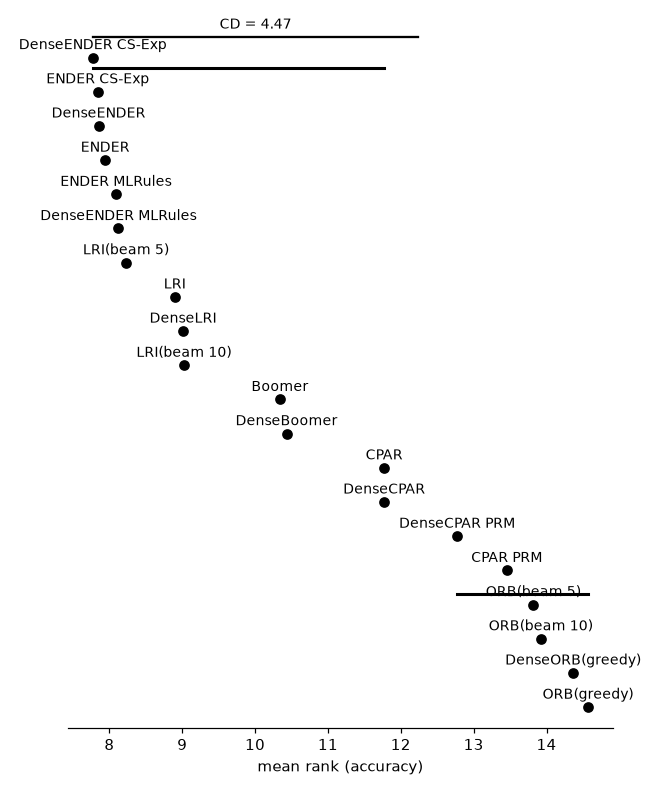
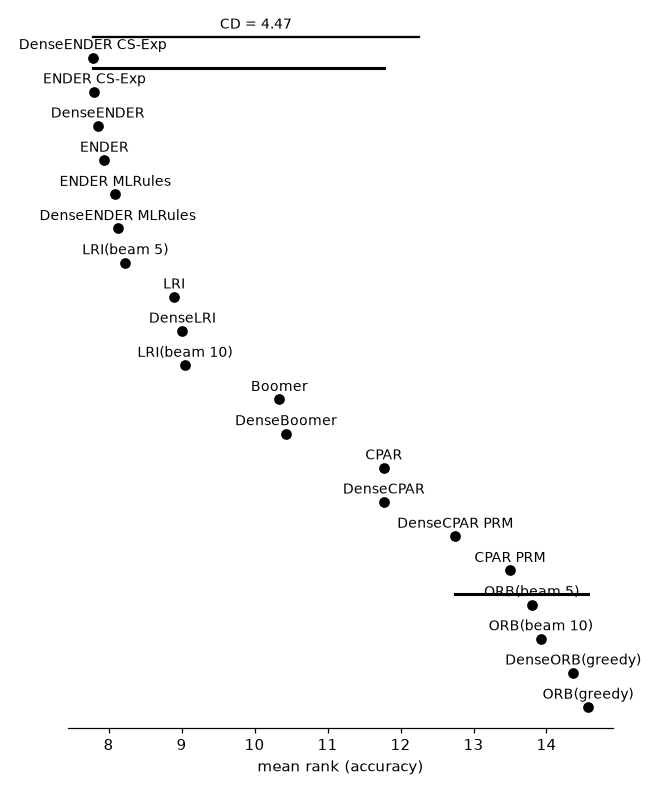
Dense vs. modular: full re-run on the faster N-lists
Run on nlist-fast-subset (the derived subsets and the dense pattern product; the
block-wise conversion only lowers peak memory), 10 fits at a time. The modular
learners are now as fast on N-lists as on Boolean data or faster (time Boolean /
N-list 0.95-1.17, before 0.71-0.98), and 10-25% faster against their dense twins.

diff --git a/demos/dense_vs_modular_report.md b/demos/dense_vs_modular_report.md
@@ -29,7 +29,7 @@ with a beam search of width 5 and 10, which the dense versions don't have.
 All learners run with their defaults (listed above) on 44 binary datasets from
 `pyrulearn.experiments.catalog` -- every one of the small and medium size classes in the full run, numeric and symbolic attributes alike; `ORB` boosts a binary loss, so no multi-class
 datasets. Exhaustive `ORB` was checked separately and left out -- see "Why exhaustive ORB
-isn't in the main comparison". On 5 very small datasets (monks-problems-3, mofn-3-7-10, vote, tic-tac-toe, breast-cancer), exhaustive `ORB` reached a mean accuracy of 96.67% against 88.65% for a beam search of width 10 and 88.24% for greedy search (over the fits that finished), in 1.7s per fit against 0.35s and 0.02s -- 5x as long as the beam search; 6 of its 15 fits hit the 120s cap. Branch and bound is exponential in the number of conditions it may combine, so it doesn't scale to the feature spaces of most datasets (dozens to hundreds of binary features after discretizing numeric attributes) -- it is left out of the main comparison.
+isn't in the main comparison". On 5 very small datasets (monks-problems-3, mofn-3-7-10, vote, tic-tac-toe, breast-cancer), exhaustive `ORB` reached a mean accuracy of 95.51% against 88.65% for a beam search of width 10 and 88.24% for greedy search (over the fits that finished), in 13.0s per fit against 0.21s and 0.02s -- 62x as long as the beam search; 5 of its 15 fits hit the 120s cap. Branch and bound is exponential in the number of conditions it may combine, so it doesn't scale to the feature spaces of most datasets (dozens to hundreds of binary features after discretizing numeric attributes) -- it is left out of the main comparison.
 
 Protocol: 10-fold stratified cross-validation (5-fold for the medium datasets)
 (`pyrulearn.experiments.runner.run_cv`), one `DataSpec` per training fold
@@ -54,7 +54,7 @@ Every learner runs single-threaded. Fits run 10 at a time (`run_cv`'s `n_jobs`),
 
 ## Why exhaustive ORB isn't in the main comparison
 
-On 5 very small datasets (monks-problems-3, mofn-3-7-10, vote, tic-tac-toe, breast-cancer), exhaustive `ORB` reached a mean accuracy of 96.67% against 88.65% for a beam search of width 10 and 88.24% for greedy search (over the fits that finished), in 1.7s per fit against 0.35s and 0.02s -- 5x as long as the beam search; 6 of its 15 fits hit the 120s cap. Branch and bound is exponential in the number of conditions it may combine, so it doesn't scale to the feature spaces of most datasets (dozens to hundreds of binary features after discretizing numeric attributes) -- it is left out of the main comparison.
+On 5 very small datasets (monks-problems-3, mofn-3-7-10, vote, tic-tac-toe, breast-cancer), exhaustive `ORB` reached a mean accuracy of 95.51% against 88.65% for a beam search of width 10 and 88.24% for greedy search (over the fits that finished), in 13.0s per fit against 0.21s and 0.02s -- 62x as long as the beam search; 5 of its 15 fits hit the 120s cap. Branch and bound is exponential in the number of conditions it may combine, so it doesn't scale to the feature spaces of most datasets (dozens to hundreds of binary features after discretizing numeric attributes) -- it is left out of the main comparison.
 
 Accuracy (mean over the folds that finished):
 
@@ -63,18 +63,18 @@ Accuracy (mean over the folds that finished):
 | breast-cancer | 69.58% | 69.94% | 67.49% | 69.58% |  |  |
 | mofn-3-7-10 | 93.73% | 95.09% | 95.32% | 93.73% | 95.47% | 95.47% |
 | monks-problems-3 | 98.92% | 98.92% | 98.92% | 98.92% | 98.92% | 98.92% |
-| tic-tac-toe | 83.09% | 87.89% | 85.91% | 83.09% | 83.92% |  |
+| tic-tac-toe | 83.09% | 87.89% | 85.91% | 83.09% | 83.92% | 85.00% |
 | vote | 95.86% | 95.86% | 95.63% | 95.86% | 95.63% | 95.63% |
 
 Fit time in seconds (mean over the folds that finished; a blank cell: every fold hit the cap):
 
 | dataset | ORB(greedy) | ORB(beam 5) | ORB(beam 10) | DenseORB(greedy) | DenseORB(exhaustive) | ORB(exhaustive) |
 |---|--:|--:|--:|--:|--:|--:|
-| breast-cancer | 0.03 | 0.43 | 0.74 | 0.01 |  |  |
-| mofn-3-7-10 | 0.02 | 0.10 | 0.17 | 0.01 | 0.28 | 0.77 |
-| monks-problems-3 | 0.02 | 0.10 | 0.20 | 0.00 | 0.40 | 1.15 |
-| tic-tac-toe | 0.02 | 0.18 | 0.34 | 0.01 | 62.80 |  |
-| vote | 0.02 | 0.16 | 0.29 | 0.01 | 1.61 | 3.29 |
+| breast-cancer | 0.02 | 0.22 | 0.41 | 0.00 |  |  |
+| mofn-3-7-10 | 0.02 | 0.07 | 0.11 | 0.01 | 0.27 | 0.66 |
+| monks-problems-3 | 0.01 | 0.07 | 0.13 | 0.00 | 0.41 | 0.94 |
+| tic-tac-toe | 0.02 | 0.12 | 0.22 | 0.01 | 58.94 | 118.14 |
+| vote | 0.01 | 0.10 | 0.18 | 0.00 | 1.60 | 2.35 |
 
 ## Dense vs. modular
 
@@ -82,39 +82,39 @@ For each pair, over the folds where both fits finished: how often the two learne
 
 | pair | identical models | accuracy dense | accuracy modular | difference (points) | time modular / dense, small | medium | all |
 |---|--:|--:|--:|--:|--:|--:|--:|
-| CPAR | 345/345 | 85.63% | 85.63% | +0.00 | 2.45 | 1.66 | 2.08 |
-| CPAR PRM | 267/345 | 85.57% | 85.43% | -0.14 | 2.57 | 1.78 | 2.19 |
-| ENDER | 333/345 | 85.83% | 85.83% | -0.00 | 2.02 | 0.95 | 1.46 |
-| ENDER CS-Exp | 328/345 | 86.04% | 86.04% | +0.00 | 2.14 | 0.99 | 1.54 |
-| ENDER MLRules | 315/345 | 86.19% | 86.15% | -0.04 | 1.82 | 0.81 | 1.28 |
-| Boomer | 326/345 | 86.43% | 86.42% | -0.01 | 2.10 | 0.85 | 1.42 |
-| ORB | 327/345 | 83.50% | 83.48% | -0.02 | 3.49 | 1.76 | 2.60 |
-| LRI | 48/345 | 85.03% | 85.04% | +0.01 | 2.55 | 1.24 | 1.87 |
+| CPAR | 345/345 | 85.63% | 85.63% | +0.00 | 2.01 | 1.40 | 1.72 |
+| CPAR PRM | 266/345 | 85.57% | 85.42% | -0.15 | 2.02 | 1.51 | 1.78 |
+| ENDER | 335/345 | 85.83% | 85.83% | -0.00 | 1.45 | 0.80 | 1.13 |
+| ENDER CS-Exp | 329/345 | 86.04% | 86.04% | +0.00 | 1.52 | 0.80 | 1.16 |
+| ENDER MLRules | 317/345 | 86.19% | 86.15% | -0.04 | 1.31 | 0.62 | 0.95 |
+| Boomer | 325/345 | 86.43% | 86.41% | -0.02 | 1.41 | 0.66 | 1.02 |
+| ORB | 326/345 | 83.50% | 83.48% | -0.02 | 2.81 | 1.48 | 2.13 |
+| LRI | 48/345 | 85.03% | 85.04% | +0.01 | 2.06 | 1.08 | 1.56 |
 
 ## Summary by learner (mean across the 44 datasets and their folds)
 
 | learner | accuracy | n_rules | n_conditions | conds/rule | fit_time (s) | wins | mean rank | failures |
 |---|--:|--:|--:|--:|--:|--:|--:|--:|
-| DenseENDER CS-Exp | 86.04% | 396.4 | 1750.1 | 4.2 | 1.29 | 3.7 | 7.77 | 0 |
-| ENDER CS-Exp | 86.04% | 396.4 | 1750.0 | 4.2 | 1.26 | 3.7 | 7.84 | 0 |
-| DenseENDER | 85.83% | 406.6 | 1906.8 | 4.4 | 1.56 | 2.3 | 7.85 | 0 |
-| ENDER | 85.83% | 406.7 | 1907.0 | 4.4 | 1.49 | 2.3 | 7.94 | 0 |
-| ENDER MLRules | 86.15% | 346.0 | 1433.1 | 4.1 | 1.31 | 1.2 | 8.09 | 0 |
-| DenseENDER MLRules | 86.19% | 346.0 | 1432.3 | 4.0 | 1.69 | 1.2 | 8.12 | 0 |
-| LRI(beam 5) | 86.13% | 392.5 | 1365.8 | 3.5 | 5.38 | 4.2 | 8.23 | 0 |
-| LRI | 85.04% | 396.3 | 1579.0 | 4.0 | 1.18 | 1.1 | 8.90 | 0 |
-| DenseLRI | 85.03% | 396.4 | 1561.4 | 3.9 | 0.88 | 4.0 | 9.01 | 0 |
-| LRI(beam 10) | 86.18% | 392.1 | 1405.0 | 3.6 | 9.95 | 3.7 | 9.02 | 0 |
-| Boomer | 86.42% | 273.1 | 1793.4 | 5.4 | 2.95 | 4.1 | 10.34 | 0 |
-| DenseBoomer | 86.43% | 272.9 | 1792.1 | 5.4 | 3.48 | 5.1 | 10.43 | 0 |
-| CPAR | 85.63% | 373.5 | 2431.9 | 4.6 | 1.45 | 1.2 | 11.77 | 0 |
-| DenseCPAR | 85.63% | 373.5 | 2431.9 | 4.6 | 1.07 | 1.2 | 11.77 | 0 |
-| DenseCPAR PRM | 85.57% | 309.1 | 1941.8 | 4.6 | 1.04 | 2.2 | 12.77 | 0 |
-| CPAR PRM | 85.43% | 307.3 | 1937.1 | 4.6 | 1.63 | 0.2 | 13.45 | 0 |
-| ORB(beam 5) | 84.06% | 9.8 | 48.5 | 4.9 | 2.09 | 0.2 | 13.82 | 0 |
-| ORB(beam 10) | 84.34% | 9.8 | 51.1 | 5.2 | 4.32 | 1.2 | 13.92 | 0 |
-| DenseORB(greedy) | 83.50% | 9.7 | 39.6 | 4.0 | 0.03 | 0.1 | 14.36 | 0 |
-| ORB(greedy) | 83.48% | 9.7 | 39.6 | 4.1 | 0.05 | 1.1 | 14.57 | 0 |
+| DenseENDER CS-Exp | 86.04% | 396.4 | 1750.1 | 4.2 | 1.12 | 3.7 | 7.78 | 0 |
+| ENDER CS-Exp | 86.04% | 396.4 | 1750.1 | 4.2 | 0.86 | 3.7 | 7.81 | 0 |
+| DenseENDER | 85.83% | 406.6 | 1906.8 | 4.4 | 1.40 | 2.3 | 7.85 | 0 |
+| ENDER | 85.83% | 406.7 | 1907.0 | 4.4 | 1.07 | 2.3 | 7.94 | 0 |
+| ENDER MLRules | 86.15% | 346.0 | 1433.1 | 4.1 | 0.90 | 1.2 | 8.09 | 0 |
+| DenseENDER MLRules | 86.19% | 346.0 | 1432.3 | 4.0 | 1.55 | 1.2 | 8.12 | 0 |
+| LRI(beam 5) | 86.13% | 392.5 | 1365.8 | 3.5 | 3.94 | 4.2 | 8.23 | 0 |
+| LRI | 85.04% | 396.3 | 1579.0 | 4.0 | 0.88 | 1.1 | 8.90 | 0 |
+| DenseLRI | 85.03% | 396.4 | 1561.4 | 3.9 | 0.75 | 4.0 | 9.01 | 0 |
+| LRI(beam 10) | 86.18% | 392.1 | 1405.0 | 3.6 | 7.20 | 3.7 | 9.05 | 0 |
+| Boomer | 86.41% | 273.1 | 1793.5 | 5.4 | 1.99 | 4.1 | 10.34 | 0 |
+| DenseBoomer | 86.43% | 272.9 | 1792.1 | 5.4 | 3.17 | 5.1 | 10.43 | 0 |
+| CPAR | 85.63% | 373.5 | 2431.9 | 4.6 | 1.15 | 1.2 | 11.77 | 0 |
+| DenseCPAR | 85.63% | 373.5 | 2431.9 | 4.6 | 0.93 | 1.2 | 11.77 | 0 |
+| DenseCPAR PRM | 85.57% | 309.1 | 1941.8 | 4.6 | 0.89 | 2.2 | 12.75 | 0 |
+| CPAR PRM | 85.42% | 307.4 | 1937.3 | 4.6 | 1.28 | 0.2 | 13.50 | 0 |
+| ORB(beam 5) | 84.06% | 9.8 | 48.5 | 4.9 | 1.49 | 0.2 | 13.80 | 0 |
+| ORB(beam 10) | 84.34% | 9.8 | 51.1 | 5.2 | 3.07 | 1.2 | 13.92 | 0 |
+| DenseORB(greedy) | 83.50% | 9.7 | 39.6 | 4.0 | 0.02 | 0.1 | 14.36 | 0 |
+| ORB(greedy) | 83.48% | 9.7 | 39.6 | 4.1 | 0.04 | 1.1 | 14.57 | 0 |
 
 Sorted by mean rank. `wins` -- datasets where a learner's mean accuracy was (tied-for-)best, a tie split evenly; `mean rank` -- average accuracy rank across datasets, failures tied for last. Means over successful fits only; `failures` counts the fits that timed out or raised. A dense learner and its twin that learn the same models tie for rank, so the ranking separates the algorithms and the searches, not dense from modular.
 
@@ -124,26 +124,26 @@ Sorted by mean rank. `wins` -- datasets where a learner's mean accuracy was (tie
 
 | learner | accuracy | n_rules | n_conditions | conds/rule | fit_time (s) | wins | mean rank | failures |
 |---|--:|--:|--:|--:|--:|--:|--:|--:|
-| ENDER CS-Exp | 84.75% | 396.9 | 1548.8 | 3.7 | 0.89 | 2.1 | 7.28 | 0 |
-| DenseENDER CS-Exp | 84.75% | 396.9 | 1549.1 | 3.7 | 0.44 | 2.1 | 7.36 | 0 |
-| ENDER | 84.45% | 406.1 | 1660.8 | 3.9 | 0.99 | 1.2 | 8.16 | 0 |
-| DenseENDER | 84.45% | 406.0 | 1660.5 | 3.9 | 0.52 | 1.2 | 8.16 | 0 |
-| DenseENDER MLRules | 84.95% | 343.1 | 1278.6 | 3.7 | 0.53 | 0.6 | 8.24 | 0 |
-| ENDER MLRules | 84.89% | 343.1 | 1279.0 | 3.7 | 0.89 | 0.6 | 8.66 | 0 |
-| DenseLRI | 83.66% | 396.3 | 1530.7 | 3.9 | 0.36 | 2.9 | 9.70 | 0 |
-| LRI(beam 5) | 84.86% | 391.6 | 1328.7 | 3.4 | 4.68 | 1.1 | 9.70 | 0 |
-| LRI | 83.68% | 396.3 | 1551.3 | 3.9 | 0.89 | 1.1 | 9.88 | 0 |
-| LRI(beam 10) | 84.94% | 391.6 | 1370.5 | 3.5 | 8.78 | 1.6 | 10.42 | 0 |
-| DenseBoomer | 85.42% | 229.2 | 1483.0 | 5.3 | 1.22 | 2.9 | 10.82 | 0 |
-| Boomer | 85.40% | 229.3 | 1484.6 | 5.3 | 2.15 | 1.9 | 10.84 | 0 |
-| CPAR | 84.42% | 180.7 | 856.5 | 4.2 | 0.44 | 0.7 | 11.22 | 0 |
-| DenseCPAR | 84.42% | 180.7 | 856.5 | 4.2 | 0.19 | 0.7 | 11.22 | 0 |
-| DenseCPAR PRM | 84.38% | 165.0 | 778.2 | 4.1 | 0.19 | 2.2 | 12.14 | 0 |
-| CPAR PRM | 84.22% | 163.7 | 771.8 | 4.1 | 0.48 | 0.2 | 12.62 | 0 |
-| ORB(beam 10) | 82.97% | 9.8 | 48.7 | 4.9 | 2.66 | 1.2 | 13.10 | 0 |
+| ENDER CS-Exp | 84.75% | 396.9 | 1548.8 | 3.7 | 0.56 | 2.1 | 7.28 | 0 |
+| DenseENDER CS-Exp | 84.75% | 396.9 | 1549.1 | 3.7 | 0.39 | 2.1 | 7.36 | 0 |
+| ENDER | 84.45% | 406.1 | 1660.8 | 3.9 | 0.64 | 1.2 | 8.16 | 0 |
+| DenseENDER | 84.45% | 406.0 | 1660.5 | 3.9 | 0.47 | 1.2 | 8.16 | 0 |
+| DenseENDER MLRules | 84.95% | 343.1 | 1278.6 | 3.7 | 0.48 | 0.6 | 8.24 | 0 |
+| ENDER MLRules | 84.89% | 343.1 | 1279.0 | 3.7 | 0.57 | 0.6 | 8.66 | 0 |
+| DenseLRI | 83.66% | 396.3 | 1530.7 | 3.9 | 0.31 | 2.9 | 9.70 | 0 |
+| LRI(beam 5) | 84.86% | 391.6 | 1328.7 | 3.4 | 3.35 | 1.1 | 9.70 | 0 |
+| LRI | 83.68% | 396.3 | 1551.3 | 3.9 | 0.63 | 1.1 | 9.88 | 0 |
+| LRI(beam 10) | 84.94% | 391.6 | 1370.5 | 3.5 | 6.21 | 1.6 | 10.42 | 0 |
+| DenseBoomer | 85.42% | 229.2 | 1483.0 | 5.3 | 1.11 | 2.9 | 10.82 | 0 |
+| Boomer | 85.40% | 229.4 | 1484.7 | 5.3 | 1.34 | 1.9 | 10.84 | 0 |
+| CPAR | 84.42% | 180.7 | 856.5 | 4.2 | 0.31 | 0.7 | 11.22 | 0 |
+| DenseCPAR | 84.42% | 180.7 | 856.5 | 4.2 | 0.16 | 0.7 | 11.22 | 0 |
+| DenseCPAR PRM | 84.38% | 165.0 | 778.2 | 4.1 | 0.17 | 2.2 | 12.12 | 0 |
+| CPAR PRM | 84.21% | 163.6 | 771.7 | 4.1 | 0.33 | 0.2 | 12.68 | 0 |
+| ORB(beam 10) | 82.97% | 9.8 | 48.7 | 4.9 | 1.83 | 1.2 | 13.10 | 0 |
 | DenseORB(greedy) | 82.05% | 9.7 | 36.5 | 3.7 | 0.01 | 0.1 | 13.22 | 0 |
-| ORB(greedy) | 82.03% | 9.7 | 36.6 | 3.7 | 0.03 | 1.1 | 13.46 | 0 |
-| ORB(beam 5) | 82.55% | 9.8 | 46.3 | 4.7 | 1.32 | 0.2 | 13.80 | 0 |
+| ORB(greedy) | 82.03% | 9.7 | 36.6 | 3.7 | 0.02 | 1.1 | 13.46 | 0 |
+| ORB(beam 5) | 82.55% | 9.8 | 46.3 | 4.7 | 0.92 | 0.2 | 13.76 | 0 |
 
 ### Medium datasets only (19, 1,000 to 10,000 examples)
 
@@ -151,26 +151,26 @@ Sorted by mean rank. `wins` -- datasets where a learner's mean accuracy was (tie
 
 | learner | accuracy | n_rules | n_conditions | conds/rule | fit_time (s) | wins | mean rank | failures |
 |---|--:|--:|--:|--:|--:|--:|--:|--:|
-| LRI(beam 5) | 89.50% | 394.8 | 1463.4 | 3.7 | 7.20 | 3.2 | 6.29 | 0 |
-| LRI(beam 10) | 89.44% | 393.4 | 1495.8 | 3.8 | 13.04 | 2.2 | 7.18 | 0 |
-| ENDER MLRules | 89.46% | 353.6 | 1838.7 | 4.9 | 2.44 | 0.7 | 7.34 | 0 |
-| DenseENDER | 89.47% | 408.1 | 2554.9 | 5.8 | 4.30 | 1.2 | 7.45 | 0 |
-| LRI | 88.61% | 396.6 | 1652.0 | 4.2 | 1.93 | 0.1 | 7.61 | 0 |
-| ENDER | 89.47% | 408.1 | 2555.0 | 5.8 | 2.82 | 1.2 | 7.66 | 0 |
-| DenseENDER MLRules | 89.44% | 353.5 | 1836.6 | 4.9 | 4.74 | 0.7 | 7.97 | 0 |
-| DenseLRI | 88.61% | 396.6 | 1642.3 | 4.1 | 2.23 | 1.1 | 8.11 | 0 |
-| DenseENDER CS-Exp | 89.43% | 395.3 | 2279.2 | 5.4 | 3.52 | 1.7 | 8.32 | 0 |
-| ENDER CS-Exp | 89.42% | 395.3 | 2279.5 | 5.4 | 2.23 | 1.7 | 8.58 | 0 |
-| Boomer | 89.09% | 388.3 | 2606.1 | 5.8 | 5.05 | 2.2 | 9.68 | 0 |
-| DenseBoomer | 89.08% | 388.2 | 2605.8 | 5.8 | 9.42 | 2.2 | 9.92 | 0 |
-| CPAR | 88.80% | 880.9 | 6577.5 | 5.9 | 4.11 | 0.5 | 12.50 | 0 |
-| DenseCPAR | 88.80% | 880.9 | 6577.5 | 5.9 | 3.41 | 0.5 | 12.50 | 0 |
-| DenseCPAR PRM | 88.69% | 688.3 | 5003.7 | 5.8 | 3.25 | 0.0 | 13.61 | 0 |
-| ORB(beam 5) | 88.02% | 9.7 | 54.3 | 5.5 | 4.12 | 0.0 | 13.84 | 0 |
-| CPAR PRM | 88.60% | 685.5 | 5003.6 | 5.8 | 4.67 | 0.0 | 14.55 | 0 |
-| ORB(beam 10) | 87.92% | 9.7 | 57.4 | 5.9 | 8.71 | 0.0 | 15.00 | 0 |
-| DenseORB(greedy) | 87.32% | 9.7 | 47.5 | 4.9 | 0.07 | 0.0 | 15.87 | 0 |
-| ORB(greedy) | 87.30% | 9.7 | 47.7 | 4.9 | 0.10 | 0.0 | 16.03 | 0 |
+| LRI(beam 5) | 89.50% | 394.8 | 1463.4 | 3.7 | 5.50 | 3.2 | 6.29 | 0 |
+| LRI(beam 10) | 89.44% | 393.4 | 1495.8 | 3.8 | 9.80 | 2.2 | 7.24 | 0 |
+| ENDER MLRules | 89.46% | 353.6 | 1838.8 | 4.9 | 1.77 | 0.7 | 7.34 | 0 |
+| DenseENDER | 89.47% | 408.1 | 2554.9 | 5.8 | 3.84 | 1.2 | 7.45 | 0 |
+| LRI | 88.61% | 396.6 | 1652.0 | 4.2 | 1.52 | 0.1 | 7.61 | 0 |
+| ENDER | 89.47% | 408.1 | 2555.0 | 5.8 | 2.18 | 1.2 | 7.66 | 0 |
+| DenseENDER MLRules | 89.44% | 353.5 | 1836.6 | 4.9 | 4.38 | 0.7 | 7.97 | 0 |
+| DenseLRI | 88.61% | 396.6 | 1642.3 | 4.1 | 1.91 | 1.1 | 8.11 | 0 |
+| DenseENDER CS-Exp | 89.43% | 395.3 | 2279.2 | 5.4 | 3.03 | 1.7 | 8.34 | 0 |
+| ENDER CS-Exp | 89.43% | 395.3 | 2279.6 | 5.4 | 1.65 | 1.7 | 8.50 | 0 |
+| Boomer | 89.09% | 388.3 | 2606.1 | 5.8 | 3.68 | 2.2 | 9.68 | 0 |
+| DenseBoomer | 89.08% | 388.2 | 2605.8 | 5.8 | 8.59 | 2.2 | 9.92 | 0 |
+| CPAR | 88.80% | 880.9 | 6577.5 | 5.9 | 3.34 | 0.5 | 12.50 | 0 |
+| DenseCPAR | 88.80% | 880.9 | 6577.5 | 5.9 | 2.96 | 0.5 | 12.50 | 0 |
+| DenseCPAR PRM | 88.69% | 688.3 | 5003.7 | 5.8 | 2.78 | 0.0 | 13.58 | 0 |
+| ORB(beam 5) | 88.02% | 9.7 | 54.3 | 5.5 | 2.99 | 0.0 | 13.84 | 0 |
+| CPAR PRM | 88.60% | 685.5 | 5004.9 | 5.8 | 3.78 | 0.0 | 14.58 | 0 |
+| ORB(beam 10) | 87.92% | 9.7 | 57.4 | 5.9 | 6.32 | 0.0 | 15.00 | 0 |
+| DenseORB(greedy) | 87.32% | 9.7 | 47.5 | 4.9 | 0.06 | 0.0 | 15.87 | 0 |
+| ORB(greedy) | 87.30% | 9.7 | 47.7 | 4.9 | 0.07 | 0.0 | 16.03 | 0 |
 
 ## Beam search for ORB and LRI
 
@@ -178,12 +178,12 @@ The dense `ORB` and `LRI` come with their own greedy (and, for `ORB`, exhaustive
 
 | learner | accuracy | n_conditions | fit_time (s) |
 |---|--:|--:|--:|
-| ORB(greedy) | 83.48% | 39.6 | 0.05 |
-| ORB(beam 5) | 84.06% | 48.5 | 2.09 |
-| ORB(beam 10) | 84.34% | 51.1 | 4.32 |
-| LRI | 85.04% | 1579.0 | 1.18 |
-| LRI(beam 5) | 86.13% | 1365.8 | 5.38 |
-| LRI(beam 10) | 86.18% | 1405.0 | 9.95 |
+| ORB(greedy) | 83.48% | 39.6 | 0.04 |
+| ORB(beam 5) | 84.06% | 48.5 | 1.49 |
+| ORB(beam 10) | 84.34% | 51.1 | 3.07 |
+| LRI | 85.04% | 1579.0 | 0.88 |
+| LRI(beam 5) | 86.13% | 1365.8 | 3.94 |
+| LRI(beam 10) | 86.18% | 1405.0 | 7.20 |
 
 ## The modular learners on Boolean data
 
@@ -191,18 +191,18 @@ The modular learners above run on `NListRepresentation`, the library's default. 
 
 | learner | accuracy, N-list | accuracy, Boolean | time Boolean / N-list (geometric mean over datasets) |
 |---|--:|--:|--:|
-| CPAR | 85.63% | 85.63% | 0.89 |
-| CPAR PRM | 85.43% | 85.54% | 0.95 |
-| ENDER | 85.83% | 85.84% | 0.76 |
-| ENDER CS-Exp | 86.04% | 86.03% | 0.73 |
-| ENDER MLRules | 86.15% | 86.19% | 0.77 |
-| Boomer | 86.42% | 86.41% | 0.87 |
-| ORB(greedy) | 83.48% | 83.52% | 0.95 |
-| LRI | 85.04% | 85.04% | 0.98 |
-| ORB(beam 5) | 84.06% | 84.04% | 0.72 |
-| ORB(beam 10) | 84.34% | 84.22% | 0.71 |
-| LRI(beam 5) | 86.13% | 86.13% | 0.86 |
-| LRI(beam 10) | 86.18% | 86.18% | 0.84 |
+| CPAR | 85.63% | 85.63% | 1.07 |
+| CPAR PRM | 85.42% | 85.54% | 1.14 |
+| ENDER | 85.83% | 85.84% | 0.97 |
+| ENDER CS-Exp | 86.04% | 86.03% | 0.96 |
+| ENDER MLRules | 86.15% | 86.19% | 1.01 |
+| Boomer | 86.41% | 86.41% | 1.16 |
+| ORB(greedy) | 83.48% | 83.52% | 1.13 |
+| LRI | 85.04% | 85.04% | 1.17 |
+| ORB(beam 5) | 84.06% | 84.04% | 0.96 |
+| ORB(beam 10) | 84.34% | 84.22% | 0.95 |
+| LRI(beam 5) | 86.13% | 86.13% | 1.05 |
+| LRI(beam 10) | 86.18% | 86.18% | 1.04 |
 
 ## Per-dataset results
 
@@ -230,7 +230,7 @@ Accuracy (mean over the folds that finished):
 | heart-statlog | 82.22% | 80.00% | 81.48% | 81.11% | 79.63% | 77.78% | 79.26% | 76.30% | 80.00% | 80.37% | 76.67% | 78.15% | 82.22% | 81.11% | 81.48% | 81.11% | 79.63% | 77.78% | 79.26% | 75.56% |
 | heloc | 70.23% | 70.00% | 72.19% | 71.79% | 72.06% | 70.05% | 70.35% | 71.88% | 70.25% | 70.14% | 71.72% | 71.72% | 70.23% | 70.42% | 72.19% | 71.79% | 72.06% | 70.05% | 70.35% | 71.55% |
 | hepatitis | 80.71% | 78.75% | 79.54% | 80.88% | 80.25% | 81.50% | 84.50% | 82.12% | 80.88% | 78.88% | 82.12% | 79.50% | 80.71% | 78.75% | 79.54% | 80.88% | 80.25% | 81.50% | 83.87% | 80.88% |
-| ilpd | 71.17% | 70.32% | 69.98% | 71.02% | 70.15% | 69.46% | 70.15% | 71.68% | 70.49% | 71.86% | 70.13% | 70.13% | 71.17% | 69.81% | 69.98% | 71.02% | 70.49% | 69.29% | 70.15% | 70.99% |
+| ilpd | 71.17% | 70.32% | 69.98% | 71.02% | 70.15% | 69.29% | 70.15% | 71.68% | 70.49% | 71.86% | 70.13% | 70.13% | 71.17% | 69.81% | 69.98% | 71.02% | 70.49% | 69.29% | 70.15% | 70.99% |
 | ionosphere | 90.88% | 89.17% | 94.29% | 93.73% | 94.30% | 94.01% | 90.02% | 93.44% | 91.72% | 91.73% | 93.16% | 92.60% | 90.88% | 89.17% | 94.29% | 93.73% | 94.30% | 94.01% | 90.02% | 93.44% |
 | kc1 | 84.21% | 83.97% | 85.63% | 85.49% | 84.87% | 84.12% | 85.02% | 85.44% | 84.97% | 85.16% | 85.63% | 85.40% | 84.21% | 83.88% | 85.63% | 85.59% | 84.87% | 83.97% | 85.02% | 85.30% |
 | kc2 | 82.94% | 83.89% | 84.26% | 84.64% | 82.93% | 81.79% | 83.12% | 82.36% | 82.16% | 81.60% | 82.36% | 81.40% | 82.94% | 83.89% | 84.26% | 84.64% | 82.93% | 81.79% | 83.12% | 81.79% |
@@ -241,7 +241,7 @@ Accuracy (mean over the folds that finished):
 | monks-problems-2 | 96.17% | 97.17% | 65.40% | 65.73% | 76.54% | 98.84% | 69.88% | 67.21% | 75.70% | 77.53% | 93.35% | 95.35% | 96.17% | 97.50% | 65.40% | 65.73% | 76.54% | 98.84% | 69.88% | 71.39% |
 | monks-problems-3 | 98.92% | 98.92% | 98.92% | 98.74% | 97.66% | 97.66% | 98.92% | 98.20% | 98.92% | 98.92% | 97.84% | 97.84% | 98.92% | 98.92% | 98.92% | 98.74% | 97.66% | 97.66% | 98.92% | 97.84% |
 | mushroom | 99.95% | 99.95% | 100.00% | 100.00% | 100.00% | 100.00% | 99.54% | 100.00% | 99.48% | 99.84% | 100.00% | 100.00% | 99.95% | 99.95% | 100.00% | 100.00% | 100.00% | 100.00% | 99.54% | 100.00% |
-| ozone-level-8hr | 93.73% | 93.73% | 93.92% | 93.92% | 94.28% | 94.28% | 93.01% | 94.24% | 92.98% | 92.94% | 94.28% | 93.96% | 93.73% | 93.80% | 94.00% | 93.96% | 94.20% | 94.28% | 93.09% | 94.20% |
+| ozone-level-8hr | 93.73% | 93.73% | 93.92% | 93.96% | 94.28% | 94.28% | 93.01% | 94.24% | 92.98% | 92.94% | 94.28% | 93.96% | 93.73% | 93.80% | 94.00% | 93.96% | 94.20% | 94.28% | 93.09% | 94.20% |
 | pc1 | 92.61% | 91.98% | 92.70% | 92.79% | 92.61% | 92.06% | 92.16% | 93.06% | 92.97% | 92.16% | 92.88% | 93.06% | 92.61% | 91.98% | 92.70% | 92.79% | 92.61% | 92.15% | 92.16% | 93.15% |
 | pc3 | 89.63% | 88.74% | 88.74% | 89.38% | 89.12% | 88.61% | 89.38% | 89.38% | 89.19% | 89.12% | 89.31% | 88.74% | 89.63% | 88.87% | 88.74% | 89.38% | 88.99% | 88.48% | 89.38% | 89.06% |
 | pc4 | 89.99% | 89.57% | 89.78% | 89.64% | 89.78% | 89.64% | 88.41% | 90.12% | 89.30% | 88.89% | 90.19% | 90.12% | 89.99% | 89.57% | 89.78% | 89.71% | 89.71% | 89.64% | 88.61% | 89.92% |
@@ -249,58 +249,58 @@ Accuracy (mean over the folds that finished):
 | qsar-biodeg | 84.45% | 83.70% | 85.88% | 86.16% | 85.31% | 85.21% | 80.95% | 85.97% | 83.51% | 82.94% | 85.88% | 85.40% | 84.45% | 83.89% | 85.88% | 86.16% | 85.31% | 85.21% | 80.95% | 85.88% |
 | sick | 98.17% | 98.17% | 98.33% | 98.06% | 98.52% | 98.52% | 98.12% | 98.59% | 98.52% | 98.36% | 98.67% | 98.52% | 98.17% | 98.17% | 98.33% | 98.06% | 98.52% | 98.52% | 98.12% | 98.59% |
 | sonar | 76.02% | 75.00% | 84.14% | 82.69% | 85.10% | 85.62% | 79.33% | 81.29% | 74.98% | 79.86% | 82.71% | 81.74% | 76.02% | 76.43% | 84.14% | 82.69% | 85.10% | 86.12% | 78.83% | 81.29% |
-| spambase | 93.76% | 94.18% | 95.28% | 95.09% | 95.00% | 95.52% | 92.20% | 95.39% | 92.70% | 92.89% | 95.26% | 95.35% | 93.76% | 94.18% | 95.28% | 95.09% | 95.00% | 95.52% | 92.20% | 95.39% |
+| spambase | 93.76% | 94.13% | 95.28% | 95.09% | 95.00% | 95.52% | 92.20% | 95.39% | 92.70% | 92.91% | 95.26% | 95.35% | 93.76% | 94.18% | 95.28% | 95.09% | 95.00% | 95.52% | 92.20% | 95.39% |
 | tic-tac-toe | 98.33% | 98.33% | 90.29% | 95.29% | 99.38% | 100.00% | 83.82% | 96.97% | 84.45% | 85.07% | 99.06% | 99.06% | 98.33% | 98.33% | 90.29% | 95.29% | 99.38% | 100.00% | 83.82% | 97.60% |
 | vote | 95.41% | 95.41% | 95.87% | 95.64% | 95.63% | 95.63% | 94.95% | 95.41% | 94.95% | 95.64% | 96.09% | 95.86% | 95.41% | 95.41% | 95.87% | 95.64% | 95.63% | 95.63% | 94.95% | 95.41% |
-| wdbc | 95.78% | 95.43% | 96.66% | 96.66% | 96.66% | 96.83% | 94.73% | 96.31% | 95.42% | 95.60% | 96.66% | 96.48% | 95.78% | 95.08% | 96.66% | 96.66% | 96.66% | 96.83% | 94.73% | 96.83% |
+| wdbc | 95.78% | 95.08% | 96.66% | 96.66% | 96.66% | 96.83% | 94.73% | 96.31% | 95.42% | 95.60% | 96.66% | 96.48% | 95.78% | 95.08% | 96.66% | 96.66% | 96.66% | 96.83% | 94.73% | 96.83% |
 | wilt | 96.86% | 96.67% | 97.15% | 96.96% | 97.15% | 97.00% | 97.11% | 97.11% | 97.11% | 97.09% | 97.13% | 97.19% | 96.86% | 96.67% | 97.15% | 96.96% | 97.15% | 97.00% | 97.11% | 97.09% |
 
 Fit time in seconds (mean over the folds that finished):
 
 | dataset | CPAR | CPAR PRM | ENDER | ENDER CS-Exp | ENDER MLRules | Boomer | ORB(greedy) | LRI | ORB(beam 5) | ORB(beam 10) | LRI(beam 5) | LRI(beam 10) | DenseCPAR | DenseCPAR PRM | DenseENDER | DenseENDER CS-Exp | DenseENDER MLRules | DenseBoomer | DenseORB(greedy) | DenseLRI |
 |---|--:|--:|--:|--:|--:|--:|--:|--:|--:|--:|--:|--:|--:|--:|--:|--:|--:|--:|--:|--:|
-| SPECT | 0.26 | 0.28 | 0.69 | 0.62 | 0.72 | 1.37 | 0.02 | 0.91 | 0.26 | 0.50 | 3.48 | 6.53 | 0.08 | 0.08 | 0.24 | 0.19 | 0.24 | 0.40 | 0.00 | 0.24 |
-| Titanic | 1.07 | 1.12 | 1.22 | 1.08 | 1.10 | 1.95 | 0.03 | 0.88 | 0.43 | 0.87 | 3.75 | 7.12 | 0.46 | 0.45 | 0.79 | 0.65 | 0.82 | 1.18 | 0.02 | 0.53 |
-| banknote-authentication | 0.17 | 0.17 | 0.90 | 0.75 | 0.82 | 1.48 | 0.02 | 0.92 | 0.37 | 0.72 | 4.22 | 7.53 | 0.07 | 0.06 | 0.56 | 0.40 | 0.44 | 0.83 | 0.01 | 0.45 |
-| blood-transfusion-service-center | 0.47 | 0.42 | 0.78 | 0.62 | 0.72 | 1.26 | 0.03 | 0.79 | 0.24 | 0.48 | 3.65 | 6.44 | 0.19 | 0.17 | 0.40 | 0.30 | 0.38 | 0.58 | 0.01 | 0.32 |
-| breast-cancer | 0.60 | 0.63 | 1.00 | 0.87 | 0.82 | 1.68 | 0.03 | 0.73 | 0.39 | 0.73 | 3.87 | 7.17 | 0.21 | 0.24 | 0.39 | 0.34 | 0.36 | 0.58 | 0.01 | 0.25 |
-| breast-w | 0.18 | 0.20 | 1.35 | 1.21 | 0.88 | 1.96 | 0.03 | 0.76 | 1.21 | 2.26 | 4.32 | 7.89 | 0.07 | 0.09 | 0.78 | 0.63 | 0.58 | 1.25 | 0.01 | 0.37 |
-| churn | 9.51 | 9.59 | 4.32 | 3.57 | 3.59 | 7.29 | 0.17 | 2.57 | 3.04 | 6.03 | 7.83 | 14.17 | 8.32 | 7.08 | 5.55 | 4.53 | 6.24 | 13.05 | 0.11 | 2.50 |
-| climate-model-simulation-crashes | 0.22 | 0.19 | 1.06 | 0.91 | 0.95 | 2.45 | 0.04 | 0.93 | 1.47 | 2.89 | 5.04 | 9.60 | 0.11 | 0.10 | 0.64 | 0.52 | 0.71 | 1.55 | 0.01 | 0.46 |
-| colic | 0.36 | 0.41 | 0.86 | 0.80 | 0.81 | 2.02 | 0.03 | 1.08 | 0.67 | 1.36 | 4.55 | 8.37 | 0.20 | 0.19 | 0.48 | 0.44 | 0.64 | 1.09 | 0.01 | 0.55 |
-| compas-two-years | 7.94 | 8.47 | 2.86 | 2.07 | 2.41 | 3.45 | 0.07 | 1.80 | 0.87 | 1.62 | 5.16 | 9.19 | 6.78 | 6.87 | 2.94 | 2.00 | 3.13 | 4.43 | 0.07 | 1.67 |
-| credit-approval | 0.72 | 0.81 | 1.34 | 1.20 | 1.13 | 2.43 | 0.04 | 0.96 | 0.92 | 1.79 | 4.48 | 8.17 | 0.38 | 0.40 | 0.82 | 0.69 | 0.76 | 1.54 | 0.01 | 0.45 |
-| credit-g | 1.43 | 1.64 | 1.69 | 1.47 | 1.44 | 3.04 | 0.06 | 1.11 | 0.91 | 1.74 | 4.63 | 8.61 | 0.64 | 0.70 | 1.05 | 0.83 | 1.04 | 2.19 | 0.02 | 0.65 |
-| cylinder-bands | 0.73 | 0.95 | 2.13 | 1.90 | 1.38 | 8.16 | 0.08 | 1.11 | 5.09 | 10.43 | 7.12 | 13.53 | 0.34 | 0.41 | 1.41 | 1.19 | 1.31 | 6.90 | 0.03 | 0.55 |
-| diabetes | 1.54 | 1.73 | 1.14 | 0.99 | 1.13 | 2.63 | 0.04 | 1.19 | 0.58 | 1.13 | 4.32 | 8.12 | 0.62 | 0.67 | 0.65 | 0.49 | 0.64 | 1.37 | 0.01 | 0.48 |
-| dresses-sales | 1.42 | 1.67 | 1.49 | 1.26 | 1.00 | 2.12 | 0.05 | 0.88 | 1.85 | 3.67 | 4.95 | 9.52 | 0.70 | 0.75 | 0.86 | 0.75 | 0.75 | 1.52 | 0.02 | 0.41 |
-| heart-c | 0.32 | 0.36 | 0.91 | 0.82 | 0.80 | 1.96 | 0.03 | 0.80 | 0.50 | 1.10 | 4.22 | 7.73 | 0.11 | 0.11 | 0.34 | 0.31 | 0.35 | 0.70 | 0.01 | 0.26 |
-| heart-h | 0.38 | 0.38 | 0.84 | 0.79 | 0.79 | 1.45 | 0.03 | 0.74 | 0.52 | 1.02 | 3.80 | 7.18 | 0.13 | 0.13 | 0.33 | 0.30 | 0.33 | 0.54 | 0.01 | 0.25 |
-| heart-statlog | 0.31 | 0.31 | 0.83 | 0.80 | 0.79 | 1.80 | 0.03 | 0.78 | 0.52 | 1.05 | 4.05 | 7.41 | 0.10 | 0.11 | 0.34 | 0.35 | 0.34 | 0.63 | 0.01 | 0.29 |
-| heloc | 24.13 | 37.55 | 7.28 | 5.28 | 7.51 | 15.57 | 0.30 | 4.44 | 5.02 | 10.05 | 12.44 | 21.23 | 20.94 | 26.19 | 14.84 | 11.85 | 21.73 | 40.06 | 0.26 | 7.71 |
-| hepatitis | 0.13 | 0.14 | 0.60 | 0.59 | 0.58 | 1.46 | 0.02 | 0.73 | 0.40 | 0.76 | 3.92 | 7.32 | 0.04 | 0.05 | 0.20 | 0.19 | 0.20 | 0.41 | 0.00 | 0.18 |
-| ilpd | 1.11 | 1.22 | 1.15 | 1.07 | 1.03 | 1.99 | 0.04 | 0.93 | 0.72 | 1.45 | 4.05 | 7.74 | 0.46 | 0.45 | 0.58 | 0.47 | 0.54 | 1.04 | 0.01 | 0.41 |
-| ionosphere | 0.17 | 0.20 | 0.96 | 0.90 | 0.93 | 2.31 | 0.04 | 1.07 | 3.18 | 6.53 | 6.71 | 13.01 | 0.07 | 0.08 | 0.54 | 0.49 | 0.67 | 1.36 | 0.01 | 0.40 |
-| kc1 | 3.49 | 3.13 | 1.83 | 1.42 | 1.62 | 3.09 | 0.05 | 1.37 | 1.97 | 4.06 | 5.59 | 10.59 | 2.26 | 2.03 | 2.25 | 1.53 | 2.56 | 4.62 | 0.04 | 1.26 |
-| kc2 | 0.53 | 0.55 | 0.97 | 0.81 | 0.89 | 1.99 | 0.03 | 0.98 | 1.86 | 3.70 | 5.18 | 9.54 | 0.25 | 0.24 | 0.61 | 0.49 | 0.70 | 1.45 | 0.01 | 0.47 |
-| kr-vs-kp | 0.45 | 0.45 | 2.22 | 1.80 | 1.49 | 2.88 | 0.06 | 1.65 | 0.72 | 1.33 | 5.23 | 9.46 | 0.19 | 0.19 | 1.58 | 1.19 | 1.22 | 2.09 | 0.02 | 0.85 |
-| mofn-3-7-10 | 0.57 | 0.70 | 0.67 | 0.50 | 0.78 | 1.38 | 0.02 | 1.15 | 0.12 | 0.19 | 3.55 | 6.33 | 0.18 | 0.21 | 0.41 | 0.23 | 0.33 | 0.55 | 0.01 | 0.43 |
-| molecular-biology_promoters | 0.08 | 0.08 | 0.63 | 0.62 | 0.63 | 1.67 | 0.03 | 0.70 | 1.11 | 2.20 | 5.56 | 10.17 | 0.04 | 0.04 | 0.30 | 0.28 | 0.36 | 0.74 | 0.01 | 0.26 |
-| monks-problems-1 | 0.14 | 0.14 | 0.73 | 0.64 | 0.76 | 0.99 | 0.02 | 0.56 | 0.12 | 0.22 | 3.47 | 6.34 | 0.05 | 0.05 | 0.31 | 0.25 | 0.28 | 0.36 | 0.00 | 0.20 |
-| monks-problems-2 | 0.52 | 0.58 | 0.74 | 0.63 | 0.90 | 1.51 | 0.03 | 1.05 | 0.12 | 0.25 | 3.46 | 6.57 | 0.17 | 0.17 | 0.35 | 0.28 | 0.41 | 0.55 | 0.01 | 0.31 |
-| monks-problems-3 | 0.10 | 0.10 | 0.66 | 0.61 | 0.72 | 1.35 | 0.02 | 0.74 | 0.11 | 0.22 | 3.18 | 5.97 | 0.03 | 0.04 | 0.31 | 0.24 | 0.31 | 0.47 | 0.01 | 0.31 |
-| mushroom | 0.34 | 0.32 | 3.51 | 2.77 | 2.77 | 5.95 | 0.12 | 2.84 | 4.54 | 9.98 | 8.44 | 13.67 | 0.17 | 0.17 | 4.71 | 4.11 | 4.51 | 7.37 | 0.07 | 2.37 |
-| ozone-level-8hr | 1.87 | 2.05 | 4.49 | 3.52 | 3.89 | 12.82 | 0.26 | 3.09 | 22.16 | 47.85 | 17.26 | 31.60 | 1.37 | 1.35 | 11.19 | 9.63 | 11.93 | 32.61 | 0.24 | 5.99 |
-| pc1 | 0.99 | 0.88 | 1.48 | 1.16 | 1.21 | 2.29 | 0.04 | 1.13 | 2.13 | 4.33 | 5.51 | 9.97 | 0.51 | 0.44 | 0.99 | 0.81 | 1.19 | 2.31 | 0.02 | 0.67 |
-| pc3 | 1.80 | 1.85 | 2.14 | 1.92 | 1.89 | 4.22 | 0.10 | 1.53 | 5.86 | 12.08 | 7.71 | 14.79 | 1.17 | 1.12 | 2.56 | 2.17 | 3.04 | 6.78 | 0.04 | 1.25 |
-| pc4 | 1.25 | 1.26 | 2.01 | 1.72 | 2.06 | 4.67 | 0.08 | 1.63 | 6.95 | 14.34 | 8.26 | 15.12 | 0.75 | 0.77 | 2.26 | 1.92 | 2.76 | 6.37 | 0.04 | 1.12 |
-| phoneme | 8.04 | 8.06 | 2.81 | 2.10 | 2.93 | 4.42 | 0.07 | 1.87 | 0.58 | 1.11 | 4.97 | 8.55 | 5.92 | 5.76 | 2.89 | 1.89 | 2.86 | 5.05 | 0.04 | 1.57 |
-| qsar-biodeg | 1.03 | 1.29 | 1.96 | 1.78 | 1.52 | 4.04 | 0.07 | 1.51 | 4.52 | 9.13 | 7.52 | 14.48 | 0.54 | 0.65 | 2.01 | 1.56 | 1.93 | 4.51 | 0.03 | 0.87 |
-| sick | 0.65 | 0.68 | 2.89 | 2.30 | 2.17 | 3.54 | 0.07 | 1.54 | 1.30 | 2.39 | 4.96 | 8.79 | 0.40 | 0.40 | 2.56 | 2.10 | 2.49 | 4.34 | 0.04 | 1.21 |
-| sonar | 0.17 | 0.17 | 1.11 | 1.01 | 1.04 | 3.08 | 0.04 | 1.04 | 7.23 | 15.00 | 9.72 | 19.05 | 0.08 | 0.07 | 0.52 | 0.50 | 0.65 | 1.89 | 0.01 | 0.39 |
-| spambase | 10.12 | 7.96 | 6.75 | 5.54 | 5.10 | 11.13 | 0.30 | 3.70 | 16.23 | 36.42 | 14.89 | 28.13 | 11.50 | 6.35 | 20.54 | 18.22 | 19.81 | 37.67 | 0.28 | 10.19 |
-| tic-tac-toe | 0.27 | 0.27 | 0.99 | 0.93 | 1.00 | 1.90 | 0.03 | 1.07 | 0.20 | 0.40 | 3.88 | 7.28 | 0.11 | 0.10 | 0.59 | 0.46 | 0.60 | 0.93 | 0.01 | 0.49 |
-| vote | 0.12 | 0.12 | 0.56 | 0.50 | 0.60 | 1.31 | 0.02 | 0.80 | 0.18 | 0.33 | 3.31 | 6.00 | 0.04 | 0.04 | 0.23 | 0.18 | 0.24 | 0.40 | 0.00 | 0.27 |
-| wdbc | 0.12 | 0.14 | 1.21 | 1.08 | 1.23 | 2.99 | 0.05 | 1.03 | 3.49 | 6.98 | 6.82 | 12.86 | 0.06 | 0.06 | 0.81 | 0.72 | 0.97 | 2.29 | 0.02 | 0.53 |
-| wilt | 3.31 | 1.47 | 2.45 | 1.55 | 1.97 | 2.73 | 0.05 | 1.86 | 0.61 | 1.25 | 4.81 | 8.35 | 2.60 | 1.01 | 2.07 | 1.27 | 1.98 | 2.89 | 0.03 | 1.16 |
+| SPECT | 0.18 | 0.18 | 0.40 | 0.33 | 0.40 | 0.76 | 0.01 | 0.54 | 0.14 | 0.26 | 2.23 | 4.11 | 0.08 | 0.08 | 0.22 | 0.18 | 0.22 | 0.38 | 0.00 | 0.23 |
+| Titanic | 0.78 | 0.76 | 0.89 | 0.70 | 0.78 | 1.33 | 0.02 | 0.66 | 0.29 | 0.54 | 2.66 | 5.02 | 0.44 | 0.42 | 0.68 | 0.52 | 0.67 | 1.10 | 0.01 | 0.40 |
+| banknote-authentication | 0.12 | 0.12 | 0.67 | 0.50 | 0.51 | 0.97 | 0.02 | 0.67 | 0.24 | 0.44 | 2.72 | 4.81 | 0.07 | 0.07 | 0.55 | 0.37 | 0.42 | 0.77 | 0.01 | 0.42 |
+| blood-transfusion-service-center | 0.33 | 0.31 | 0.53 | 0.42 | 0.47 | 0.80 | 0.02 | 0.58 | 0.15 | 0.29 | 2.41 | 4.39 | 0.19 | 0.18 | 0.38 | 0.28 | 0.37 | 0.58 | 0.01 | 0.31 |
+| breast-cancer | 0.40 | 0.41 | 0.57 | 0.51 | 0.49 | 0.94 | 0.02 | 0.48 | 0.23 | 0.43 | 2.51 | 4.63 | 0.18 | 0.19 | 0.31 | 0.27 | 0.29 | 0.50 | 0.01 | 0.22 |
+| breast-w | 0.13 | 0.15 | 0.91 | 0.78 | 0.58 | 1.27 | 0.02 | 0.58 | 0.80 | 1.52 | 3.14 | 5.77 | 0.07 | 0.08 | 0.71 | 0.60 | 0.56 | 1.15 | 0.01 | 0.34 |
+| churn | 7.99 | 7.77 | 3.30 | 2.56 | 2.59 | 5.49 | 0.12 | 2.00 | 2.20 | 4.36 | 6.13 | 10.97 | 7.08 | 6.51 | 4.95 | 4.14 | 5.69 | 11.63 | 0.08 | 2.17 |
+| climate-model-simulation-crashes | 0.16 | 0.15 | 0.75 | 0.63 | 0.66 | 1.58 | 0.03 | 0.68 | 1.00 | 2.02 | 3.70 | 6.92 | 0.10 | 0.09 | 0.60 | 0.49 | 0.65 | 1.47 | 0.01 | 0.38 |
+| colic | 0.26 | 0.28 | 0.56 | 0.51 | 0.52 | 1.24 | 0.02 | 0.75 | 0.42 | 0.84 | 3.21 | 6.03 | 0.13 | 0.14 | 0.39 | 0.33 | 0.42 | 0.89 | 0.01 | 0.34 |
+| compas-two-years | 6.63 | 6.83 | 2.44 | 1.62 | 1.91 | 2.65 | 0.05 | 1.40 | 0.56 | 1.06 | 3.64 | 6.16 | 5.79 | 6.01 | 2.61 | 1.79 | 2.61 | 3.82 | 0.04 | 1.41 |
+| credit-approval | 0.56 | 0.60 | 0.91 | 0.79 | 0.76 | 1.63 | 0.03 | 0.74 | 0.61 | 1.20 | 3.26 | 6.01 | 0.31 | 0.31 | 0.66 | 0.56 | 0.67 | 1.39 | 0.01 | 0.41 |
+| credit-g | 1.07 | 1.19 | 1.11 | 0.93 | 0.96 | 2.00 | 0.04 | 0.82 | 0.58 | 1.13 | 3.56 | 6.48 | 0.58 | 0.66 | 0.92 | 0.75 | 0.99 | 2.00 | 0.02 | 0.48 |
+| cylinder-bands | 0.55 | 0.64 | 1.37 | 1.16 | 0.94 | 5.34 | 0.06 | 0.87 | 3.76 | 7.43 | 5.41 | 10.12 | 0.31 | 0.36 | 1.29 | 1.10 | 1.20 | 6.31 | 0.03 | 0.51 |
+| diabetes | 1.06 | 1.17 | 0.79 | 0.65 | 0.72 | 1.59 | 0.02 | 0.76 | 0.34 | 0.67 | 2.91 | 5.31 | 0.55 | 0.59 | 0.59 | 0.46 | 0.61 | 1.25 | 0.01 | 0.39 |
+| dresses-sales | 1.10 | 1.22 | 0.97 | 0.82 | 0.65 | 1.39 | 0.04 | 0.68 | 1.20 | 2.46 | 3.76 | 7.04 | 0.61 | 0.68 | 0.77 | 0.65 | 0.68 | 1.41 | 0.02 | 0.37 |
+| heart-c | 0.22 | 0.24 | 0.54 | 0.50 | 0.52 | 1.10 | 0.02 | 0.57 | 0.32 | 0.62 | 2.80 | 5.19 | 0.10 | 0.11 | 0.32 | 0.28 | 0.33 | 0.63 | 0.01 | 0.24 |
+| heart-h | 0.25 | 0.27 | 0.53 | 0.47 | 0.47 | 0.88 | 0.02 | 0.50 | 0.32 | 0.61 | 2.71 | 4.96 | 0.11 | 0.12 | 0.31 | 0.26 | 0.29 | 0.51 | 0.01 | 0.22 |
+| heart-statlog | 0.20 | 0.22 | 0.52 | 0.48 | 0.48 | 1.04 | 0.02 | 0.55 | 0.32 | 0.61 | 2.78 | 5.13 | 0.09 | 0.10 | 0.30 | 0.26 | 0.30 | 0.57 | 0.01 | 0.23 |
+| heloc | 19.66 | 31.70 | 6.20 | 4.25 | 5.85 | 12.22 | 0.23 | 4.07 | 3.79 | 7.52 | 10.34 | 17.41 | 18.00 | 21.25 | 13.83 | 10.61 | 21.63 | 36.45 | 0.27 | 8.07 |
+| hepatitis | 0.09 | 0.10 | 0.37 | 0.34 | 0.34 | 0.82 | 0.01 | 0.47 | 0.22 | 0.45 | 2.57 | 4.78 | 0.04 | 0.04 | 0.20 | 0.18 | 0.19 | 0.40 | 0.00 | 0.17 |
+| ilpd | 0.77 | 0.84 | 0.74 | 0.62 | 0.64 | 1.25 | 0.02 | 0.66 | 0.43 | 0.84 | 2.91 | 5.34 | 0.40 | 0.43 | 0.52 | 0.42 | 0.52 | 0.96 | 0.01 | 0.33 |
+| ionosphere | 0.12 | 0.13 | 0.63 | 0.59 | 0.62 | 1.37 | 0.03 | 0.73 | 2.22 | 4.50 | 5.07 | 9.41 | 0.06 | 0.07 | 0.49 | 0.46 | 0.61 | 1.25 | 0.01 | 0.36 |
+| kc1 | 2.70 | 2.53 | 1.42 | 1.00 | 1.20 | 2.20 | 0.04 | 1.08 | 1.42 | 2.79 | 4.31 | 7.85 | 2.10 | 1.88 | 1.80 | 1.37 | 2.26 | 4.37 | 0.03 | 1.12 |
+| kc2 | 0.38 | 0.37 | 0.65 | 0.53 | 0.61 | 1.29 | 0.02 | 0.71 | 1.28 | 2.47 | 3.83 | 7.09 | 0.22 | 0.21 | 0.55 | 0.43 | 0.64 | 1.36 | 0.01 | 0.42 |
+| kr-vs-kp | 0.30 | 0.32 | 1.58 | 1.26 | 1.06 | 2.02 | 0.04 | 1.12 | 0.46 | 0.86 | 3.58 | 6.22 | 0.15 | 0.16 | 1.42 | 1.10 | 1.12 | 1.97 | 0.02 | 0.83 |
+| mofn-3-7-10 | 0.40 | 0.47 | 0.49 | 0.34 | 0.50 | 0.87 | 0.02 | 0.76 | 0.07 | 0.12 | 2.50 | 4.36 | 0.17 | 0.19 | 0.36 | 0.20 | 0.32 | 0.52 | 0.01 | 0.41 |
+| molecular-biology_promoters | 0.05 | 0.05 | 0.42 | 0.40 | 0.42 | 1.05 | 0.02 | 0.50 | 0.82 | 1.60 | 4.02 | 7.39 | 0.02 | 0.03 | 0.23 | 0.21 | 0.26 | 0.57 | 0.00 | 0.19 |
+| monks-problems-1 | 0.09 | 0.09 | 0.45 | 0.37 | 0.45 | 0.57 | 0.01 | 0.39 | 0.06 | 0.12 | 2.26 | 4.09 | 0.04 | 0.04 | 0.28 | 0.21 | 0.26 | 0.32 | 0.00 | 0.19 |
+| monks-problems-2 | 0.36 | 0.36 | 0.50 | 0.43 | 0.61 | 0.96 | 0.02 | 0.65 | 0.08 | 0.14 | 2.37 | 4.33 | 0.16 | 0.16 | 0.33 | 0.27 | 0.38 | 0.53 | 0.01 | 0.30 |
+| monks-problems-3 | 0.06 | 0.07 | 0.45 | 0.37 | 0.46 | 0.78 | 0.01 | 0.54 | 0.07 | 0.13 | 2.21 | 4.05 | 0.03 | 0.03 | 0.28 | 0.21 | 0.26 | 0.41 | 0.00 | 0.25 |
+| mushroom | 0.25 | 0.29 | 3.02 | 2.33 | 2.14 | 4.72 | 0.10 | 2.25 | 3.30 | 7.63 | 6.61 | 10.89 | 0.15 | 0.15 | 4.37 | 3.83 | 4.38 | 7.08 | 0.07 | 2.14 |
+| ozone-level-8hr | 1.61 | 1.57 | 3.22 | 2.73 | 2.73 | 8.86 | 0.17 | 2.63 | 16.71 | 35.83 | 13.32 | 24.44 | 1.50 | 1.28 | 9.62 | 7.47 | 10.46 | 30.55 | 0.14 | 3.66 |
+| pc1 | 0.60 | 0.58 | 0.90 | 0.74 | 0.79 | 1.45 | 0.03 | 0.78 | 1.42 | 2.87 | 3.87 | 7.09 | 0.40 | 0.37 | 0.95 | 0.74 | 1.14 | 2.05 | 0.02 | 0.59 |
+| pc3 | 1.46 | 1.42 | 1.60 | 1.29 | 1.27 | 2.94 | 0.06 | 1.27 | 4.37 | 8.68 | 6.14 | 11.47 | 1.12 | 1.03 | 2.32 | 1.92 | 2.80 | 5.91 | 0.04 | 1.14 |
+| pc4 | 0.97 | 0.97 | 1.47 | 1.21 | 1.28 | 2.97 | 0.05 | 1.21 | 4.90 | 9.84 | 6.28 | 11.54 | 0.71 | 0.70 | 2.03 | 1.74 | 2.54 | 5.81 | 0.03 | 1.07 |
+| phoneme | 6.48 | 6.47 | 2.39 | 1.65 | 2.11 | 3.58 | 0.05 | 1.52 | 0.41 | 0.75 | 3.76 | 6.32 | 5.11 | 4.94 | 2.37 | 1.63 | 2.49 | 4.40 | 0.04 | 1.39 |
+| qsar-biodeg | 0.75 | 0.91 | 1.39 | 1.18 | 1.07 | 2.55 | 0.05 | 1.07 | 3.12 | 6.17 | 5.64 | 10.42 | 0.48 | 0.55 | 1.67 | 1.43 | 1.82 | 4.29 | 0.03 | 0.81 |
+| sick | 0.48 | 0.52 | 2.15 | 1.59 | 1.62 | 2.63 | 0.05 | 1.23 | 0.86 | 1.65 | 3.74 | 6.46 | 0.35 | 0.36 | 2.32 | 1.78 | 2.29 | 3.86 | 0.04 | 1.11 |
+| sonar | 0.11 | 0.12 | 0.70 | 0.67 | 0.66 | 2.05 | 0.03 | 0.77 | 5.53 | 11.32 | 7.62 | 14.79 | 0.06 | 0.07 | 0.50 | 0.47 | 0.59 | 1.73 | 0.01 | 0.35 |
+| spambase | 8.43 | 6.25 | 5.29 | 4.28 | 3.73 | 8.38 | 0.19 | 3.09 | 11.71 | 27.08 | 12.33 | 22.48 | 9.68 | 5.39 | 18.38 | 15.02 | 17.75 | 34.05 | 0.26 | 7.89 |
+| tic-tac-toe | 0.19 | 0.20 | 0.71 | 0.60 | 0.69 | 1.26 | 0.02 | 0.76 | 0.13 | 0.23 | 2.74 | 4.96 | 0.09 | 0.09 | 0.53 | 0.42 | 0.50 | 0.83 | 0.01 | 0.40 |
+| vote | 0.07 | 0.08 | 0.35 | 0.29 | 0.38 | 0.76 | 0.01 | 0.54 | 0.11 | 0.19 | 2.21 | 4.03 | 0.03 | 0.03 | 0.23 | 0.17 | 0.23 | 0.40 | 0.00 | 0.25 |
+| wdbc | 0.09 | 0.10 | 0.80 | 0.71 | 0.77 | 1.84 | 0.03 | 0.80 | 2.47 | 4.89 | 5.02 | 9.38 | 0.05 | 0.05 | 0.72 | 0.63 | 0.89 | 1.98 | 0.01 | 0.48 |
+| wilt | 2.83 | 1.15 | 1.88 | 1.19 | 1.50 | 2.09 | 0.04 | 1.32 | 0.41 | 0.76 | 3.37 | 5.80 | 2.39 | 0.94 | 1.87 | 1.15 | 1.76 | 2.56 | 0.03 | 1.15 |
 
